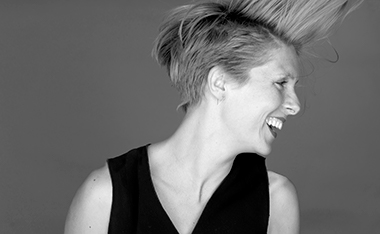
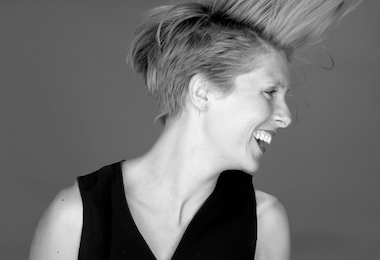
Fixed some typos and added some links. Also, resized thumbnail image to match the others so they line up nicely.

Changed region(s): [[0.0579, 0.0, 0.9263, 1.0]]

diff --git a/interview/emilie-baltz/index.php b/interview/emilie-baltz/index.php
@@ -58,7 +58,7 @@
   <header class="border header-interview">
     <div class="wrapper-sm">
       <h2>Emilie Baltz</h2>
-      <p class="intro">Emilie Baltz is an artist, an experience designer, and a food technologist but those terms don’t quite do her justice . She has taken all of her experiences ranging from childhood microwave experiments to studying contemporary dance and screenwriting, to inviting guests for colourful interactive dinners at her home and built a career in which she creates and tells interactive stories using food and the five senses in the most playful and unconventional ways. Based in New York City, she is also one of the founding members of New Inc., a founding faculty member of the School of Visual Arts Products of Design MFA Program, and the founder of Food Design Studio at Pratt Institute. She is also an award winning author of “L.O.V.E. Foodbook” and a public speaker at engagements such as TedX, the TODAY Show, FITC, and more. </p>
+      <p class="intro">Emilie Baltz is an artist, an experience designer, and a food technologist but those terms don’t quite do her justice. She has taken all of her experiences ranging from childhood microwave experiments to studying contemporary dance and screenwriting, to inviting guests for colourful interactive dinners at her home and built a career in which she creates and tells interactive stories using food and the five senses in the most playful and unconventional ways. Based in New York City, she is also one of the founding members of <a href="http://www.newinc.org/" alt="New Inc. New York">New Inc.</a>, a founding faculty member of the School of Visual Arts <a href="http://productsofdesign.sva.edu/" alt="Products of Design MFA Program at SVA">Products of Design MFA Program</a>, and the founder of Food Design Studio at Pratt Institute. She is also an award winning author of “L.O.V.E. Foodbook” and a public speaker at engagements such as TedX, the TODAY Show, FITC, and more. </p>
 
       <?php // Don't update. Using the info from PHP variables at the top of the page. ?>
       <p class="author">An interview with <a href="<?php echo $interviewer_url; ?>"><?php echo $interviewer; ?></a></p>
@@ -92,20 +92,20 @@
   <dl class="border">
     <dt class="interview-q">Emilie walked into the Osgoode boardroom at the Hilton hotel, between seminars, at <a href="http://fitc.ca/event/to17/" target="_blank">FITC 2017</a>, just as I finished testing my Zoom recorder. She would be sharing her expertise in <a href="http://fitc.ca/presentation/sensploration/" target="_blank">Sensploration</a> the following day and I had the opportunity to ask her everything from her work, to her background, to being a woman in tech. The kind of experiences Emilie designed blew my mind and broke down everything I had learned about experience design thus far. On my way to our meeting, I picked up a unicorn themed cupcake for Emilie from <a href="http://www.cutiepiecupcakes.ca/" target="_blank">Cutie Pie Cupcakes</a>. As it turns out, her personal company name she’s trademarked is called Unicorn Exists.</dt>
     <dd class="interview-a">
-      <p>When I was coming up with a business name for my accountant to register, I told him: Baltz Works, Baltz Inc. and just as a joke, Unicorns Exist. The next day, I received my paperwork and it read, ‘Unicorn Exists is live and open for business’ and I was like, what the f***?</p> 
- 
+      <p>When I was coming up with a business name for my accountant to register, I told him: Baltz Works, Baltz Inc. and just as a joke, Unicorns Exist. The next day, I received my paperwork and it read, ‘Unicorn Exists is live and open for business’ and I was like, what the f***?</p>
+
       <p>‘Baltz Works was taken.’</p>
 
-      <p>I said, ‘what about Baltz Inc?’ He said, ‘oh, I don’t know, the third one was funny.’ So he picked the third one but he misspelled it! He spelled it Unicorn Exists. He put the S after exist which makes no sense at all. I called him back and said Brian, you misspelled it!</p> 
+      <p>I said, ‘what about Baltz Inc?’ He said, ‘oh, I don’t know, the third one was funny.’ So he picked the third one but he misspelled it! He spelled it Unicorn Exists. He put the S after exist which makes no sense at all. I called him back and said Brian, you misspelled it!</p>
 
       <p>‘You have to change it now, I have to bill now!’ </p>
 
-      <p>I went to buy the domain and as I was typing out Unicorns Exist on <a href="https://www.name.com/" target="_blank">name.com</a>, I looked at it, and what I’ve typed is, unicornsexist. That’s the way it’s spelled as a domain. So obviously, I call him back and said never mind!</p> 
+      <p>I went to buy the domain and as I was typing out Unicorns Exist on <a href="https://www.name.com/" target="_blank">name.com</a>, I looked at it, and what I’ve typed is, unicornsexist. That’s the way it’s spelled as a domain. So obviously, I call him back and said never mind!</p>
 
       <p>That’s why Unicorn Exists is my (business) name. In the end it’s quite wonderful because I also believe in accidents. Unicorn Exists stands for hunting for possibilities because within accidents and mistakes, you can often find possibilities. It was a perfect metaphor for what I believe in anyway. We’re all hunting for the missing S (which is all the other unicorns who also search for possibilities!).</p>
     </dd>
   </dl>
-    
+
 <!-- // Q & A -  Add as many as required. -->
   <dl class="border">
     <dt class="interview-q">What is a food technologist and how do you define what you do?</dt>
@@ -114,7 +114,7 @@
       <p>For me, being a food technologist is about being able to create new possibilities; new arrangements that aren’t expected everyday, [creating] delightful inventions for tomorrow. I’m using a lot of digital technology now, a lot of sensor technology, mostly because I like the outcomes that it is able to deliver. I’m interested in rearranging the way that we eat and the way that we consume. Just like you can have a creative technologist, you can have a food technologist. I like to look through that lens and question how can we create tastier ways to engage with our technology.</p>
     </dd>
   </dl>
-    
+
     <!-- // Q & A -  Add as many as required. -->
   <dl class="border">
     <dt class="interview-q">How did you first start doing this? Did someone approach you?</dt>
@@ -126,7 +126,7 @@
         <p>Now, my practical experience is that I went to college and got a degree in screenwriting and contemporary dance. I’ve always been interested in storytelling. I was enamoured with this way of seeing the world, and also feeling the world. I wanted to study how to do that. Screenwriting is a way of organizing storytelling by architecting it through language, and dance is a form of not only expressing it for an audience, but also for feeling it yourself through your body. One is a verbal form of storytelling, and one is a physical form of storytelling. That said, after college I decided to write my own adventure and left film and dance behind to go into photography, then got a wild job restoring a french medieval chateau with Winston Churchill’s grandson, then came back to New York and waitressed. </p>
     </dd>
   </dl>
-    
+
   <!-- // Image - Landscape -->
   <div class="border img-landscape">
     <figure>
@@ -137,7 +137,7 @@
       </figcaption>
     </figure>
   </div>
-    
+
   <!-- // Pull Quote -->
   <aside class="border pull-quote">
     <p>We all must eat to live and in that quest for some sense of truth and human understanding in the world, I could find no other material other than food that seemed to connect all of us.</p>
@@ -150,22 +150,22 @@
       <p>I love humans. I love the stories that we live, and the feelings that we feel. With this experience in hospitality, I knew this was something that I wanted to do. Food had started to bring together the disciplines I had studied: screenwriting and dance, language and the human body, human behavior and human movement.</p>
     </dd>
   </dl>
-    
+
   <!-- // Pull Quote -->
   <aside class="border pull-quote">
-    <p>Food had started to bring together the disciplines I had studied: screenwriting and dance, language and the human body, human behavior and human movement. 
+    <p>Food had started to bring together the disciplines I had studied: screenwriting and dance, language and the human body, human behavior and human movement.
 </p>
   </aside>
-    
+
     <!-- // Q & A -  Add as many as required. -->
   <dl class="border">
     <dt class="interview-q">How long did you work there for?</dt>
     <dd class="interview-a">
-      <p>I worked there for a year. Then I went back to school and got a masters degree in industrial design. Afterwards, I worked in product design and development, from cell phones to jackets, product innovation for Microsoft, ping pong tables for Puma,, all sorts of “stuff”. Eventually I reached a certain point where I got bored of what was happening in my daily life because I was quite far from materials and from the user.</p>
+      <p>I worked there for a year. Then I went back to school and got a masters degree in industrial design. Afterwards, I worked in product design and development, from cell phones to jackets, product innovation for Microsoft, ping pong tables for Puma, all sorts of “stuff”. Eventually I reached a certain point where I got bored of what was happening in my daily life because I was quite far from materials and from the user.</p>
       <p>I had done my graduate thesis on food, specifically looking at why Americans eat the way they do: what are the environmental and contextual factors that influence our everyday consumption behaviours? I developed a whole series of different products and artifacts that were reflections of what I had been researching. But this was 2005, and this was a new space. People were not using food as a material for design at that period as much as we are today, so I chose to let that go and worked practically as an industrial designer. When I got a little disillusioned in a corporate/commercial setting, I started making wild dinners in my own home to rekindle this love of food and behavior.</p>
     </dd>
   </dl>
-    
+
   <!-- // Image - Landscape -->
   <div class="border img-landscape">
     <figure>
@@ -183,10 +183,10 @@
       <p>With my colour themed dinners, guests left with an understanding of a particular colour that expanded the boundaries of their previous understanding. Maybe you never thought that helium was pink, but of course it can be! This kind of radical hospitality allows us to not just engage in new ways with each other, but also expand an understanding of ourselves and the world around us. That is my fundamental goal in life. </p>
     </dd>
   </dl>
-    
+
   <!-- // Pull Quote -->
   <aside class="border pull-quote">
-    <p>How can we create more plural lexicons and richer fluencies together as human beings so we understand that though we are alone, we are also together? What if the language of diversity didn’t just stop at the colour of our skin, or the nationality that’s on our passport, but it also had to do with the way we see the world as humans? 
+    <p>How can we create more plural lexicons and richer fluencies together as human beings so we understand that though we are alone, we are also together? What if the language of diversity didn’t just stop at the colour of our skin, or the nationality that’s on our passport, but it also had to do with the way we see the world as humans?
 </p>
   </aside>
 
@@ -195,7 +195,7 @@
     <figure>
       <img src="<?php echo $path_img; ?>landscape-emilie-baltz-food-junkie.jpg" alt="Emilie Baltz Food Junkie page">
       <figcaption>
-          Emilie’s side experiments with food didn’t end there. She, with the help of her intern, used to make crazy recipes out of office snacks. She posted the recipes on a friend’s website at <a href="http://www.core77.com/" target="_blank">core77.com</a> and called it, <a href="http://www.eatmedaily.com/2009/11/office-snack-gourmet-by-emilie-baltz-food-art/" target="_blank">Office Snack Gourmet</a>. 
+          Emilie’s side experiments with food didn’t end there. She, with the help of her intern, used to make crazy recipes out of office snacks. She posted the recipes on a friend’s website at <a href="http://www.core77.com/" target="_blank">core77.com</a> and called it, <a href="http://www.eatmedaily.com/2009/11/office-snack-gourmet-by-emilie-baltz-food-art/" target="_blank">Office Snack Gourmet</a>.
       </figcaption>
     </figure>
   </div>
@@ -206,7 +206,7 @@
       <p> I made five gastronomic recipes, some of which I had grown up with, remade with American junk food from crappy office pantry snacks. When it posted online, it went a little bit viral and I got a call from a book publisher in the States who said, ‘We’ve always wanted to make a book like this. Would you be interested? And can you make 101 recipes?’ And I said, “Of course!” </p>
     </dd>
   </dl>
-    
+
   <!-- // Image - Landscape -->
   <div class="border img-landscape">
     <figure>
@@ -216,7 +216,7 @@
       </figcaption>
     </figure>
   </div>
-    
+
     <!-- // Q & A -  Add as many as required. -->
   <dl class="border">
     <dt class="interview-q">What made you want to go back to school for industrial design?</dt>
@@ -224,12 +224,12 @@
       <p>I wanted to learn how to make things. I like to use my body, but I also like people. Industrial design, specifically the study of product design, is the study of how things and human behaviour intersect. (Think of it this way, if we are living the Theatre of Life, I think product design is the Props). Industrial design is a great way to learn about form, material, and shape, but it’s also a great way to learn about human behaviour. There’s so much user research that goes into it, including behavioural studies and user testing. You’re actually learning about people throughout the entire process. At heart, it is a problem solving discipline, so you have to have an empathetic understanding of a user to deliver a solution.</p>
     </dd>
   </dl>
-    
+
   <!-- // Pull Quote -->
   <aside class="border pull-quote">
     <p>Industrial design is a great way to learn about form, material, and shape, but it’s also a great way to learn about human behaviour.</p>
   </aside>
-    
+
     <!-- // Q & A -  Add as many as required. -->
   <dl class="border">
     <dt class="interview-q">How do you test with users and sympathize with their needs when designing for food experiences?</dt>
@@ -238,7 +238,7 @@
       <p>That said, at the end of the day, what people remember is, as Maya Angelou wrote, ‘people will not remember me for what I do, they will remember me for how I made them feel.’ That’s what’s so interesting for me about the design of food. The creative departure can be less focused on what you do, and more about what you want to feel.</p>
     </dd>
   </dl>
-    
+
     <!-- // Q & A -  Add as many as required. -->
   <dl class="border">
     <dt class="interview-q">What’s your favourite restaurant?</dt>
@@ -247,7 +247,7 @@
       <p>For the theatre of life, <a href="https://www.alinearestaurant.com/" target="_blank">Alinea</a>, in Chicago is Grant Achatz’s opera of food and it is just wild. Also I love anything Albert Adria does, Ferran Adria’s brother, (the two guys who started <a href="http://elbulli.com/" target="_blank">El Bulli</a>). Albert is just a genius and anything he does is amazing. I was fortunate enough to eat in a place called <a href="http://www.nytimes.com/2011/05/08/travel/08bites-41degrees.html" target="_blank">41 Degrees</a> which closed a couple of years ago, and now he’s opened one called <a href="http://www.enigmaconcept.es/" target="_blank">Enigma</a>. I also love a coffee shop in New York called <a href="http://www.ocafenyc.com/" target="_blank">O Cafe</a>. A friend of mine, Fernando, runs it. I love it because everything tastes like what it is. Either I like things that are super fantastic or I love just to eat an avocado, a really good egg, a really nice piece of dark chocolate, and really nice salt. Those are the two poles.</p>
     </dd>
   </dl>
-    
+
     <!-- // Q & A -  Add as many as required. -->
   <dl class="border">
     <dt class="interview-q">Tell me about some of your favourite projects.</dt>
@@ -255,7 +255,7 @@
       <p>There was a very epic  one called <a href="http://emiliebaltz.com/commissions/energia-dinner/" target="_blank">Energia</a>. It was a dinner at a nuclear reactor in Stockholm. That was wild. That dinner was designed for risk. How can we foster risk and create a place, a space, for people to experience risk? Well, you put them into an elevator, you plunge them 25 metres under Stockholm city centre and you have them explore the innards of a decommissioned nuclear reactor through all sorts of wild food experiences. It was epic and wonderful and I loved making it!</p>
     </dd>
   </dl>
-    
+
   <!-- // Image - Landscape -->
   <div class="border img-landscape">
     <figure>
@@ -266,7 +266,7 @@
       </figcaption>
     </figure>
   </div>
-    
+
     <!-- // Q & A -  Add as many as required. -->
   <dl class="border">
     <dd class="interview-a">
@@ -286,7 +286,7 @@
     <!-- // Q & A -  Add as many as required. -->
   <dl class="border">
     <dd class="interview-a">
-      <p>The <a href="http://emiliebaltz.com/commissions/cotton-candy-theremin/" target="_blank">cotton candy theremin machine</a> was also a collaborative project with <a href="http://sharkbox.com/" target="_blank">Charlie Whitney</a> and <a href="http://www.stewardesslollipop.com/" target="_blank">Philip Sierzega</a>. Phil is an interactive director and artist and Charlie is a programmer and an artist. Cotton candy serves as a good metaphor for the project because it involved spinning so many different disciplines together. We worked with sound designers and motion graphics designers, coders, industrial designers, and chefs.</p>
+      <p>The <a href="http://emiliebaltz.com/commissions/cotton-candy-theremin/" target="_blank">Cotton Candy Theremin Machine</a> was also a collaborative project with <a href="http://sharkbox.com/" target="_blank">Charlie Whitney</a> and <a href="http://www.stewardesslollipop.com/" target="_blank">Philip Sierzega</a>. Phil is an interactive director and artist and Charlie is a programmer and an artist. Cotton candy serves as a good metaphor for the project because it involved spinning so many different disciplines together. We worked with sound designers and motion graphics designers, coders, industrial designers, and chefs.</p>
     </dd>
   </dl>
   <!-- // Image - Landscape -->
@@ -320,7 +320,7 @@
       <p>New Inc is the New Museum’s incubator for art design and technology and supports entrepreneurship in various forms. The <a href="http://www.newmuseum.org/" target="_blank">New Museum</a> is such an interesting institution because it’s constantly questioning itself. What is a museum? What does it mean to be emerging in the contemporary scene right now? New Inc is great. I was the first class there. It was a special time and place as well, because the first class of anything is usually filled with people who are ready and willing to experiment.</p>
     </dd>
   </dl>
-    
+
   <!-- // Image - Landscape -->
   <div class="border img-landscape">
     <figure>
@@ -331,7 +331,7 @@
       </figcaption>
     </figure>
   </div>
-    
+
     <!-- // Q & A -  Add as many as required. -->
   <dl class="border">
     <dt class="interview-q">You founded the Food Design Studio at Pratt Institute as well. Tell me about that. </dt>
@@ -341,7 +341,7 @@
       <p>That’s the first half of the food design studio and the second half is a series of commercial applications. We design a cookie, a meal, and different levels of consumer packaged goods for in-home experiences, to spectacular events. The final project can be of any area of interest so some students might explore sustainability, while some people are really interested in play.</p>
     </dd>
   </dl>
-    
+
   <!-- // Image - Landscape -->
   <div class="border img-landscape">
     <figure>
@@ -352,7 +352,7 @@
       </figcaption>
     </figure>
   </div>
-    
+
     <!-- // Q & A -  Add as many as required. -->
   <dl class="border">
     <dt class="interview-q">Where do you see UX/UI education going in the future?</dt>
@@ -364,7 +364,7 @@
   <aside class="border pull-quote">
     <p>If you switch your point of entry to an emotional point of entry, I believe that our end outcome is different. It is more empathetic and generous. Those are abstract terms but I do think it can change the content in the end by creating something that’s a little more human. </p>
   </aside>
-    
+
     <!-- // Q & A -  Add as many as required. -->
   <dl class="border">
     <dt class="interview-q">Has your gender ever affected your work experience?</dt>
@@ -380,8 +380,8 @@
   </aside>
 
 <dl class="border">
-    <dd class="interview-a">
-        <p>As we gathered our things to make our way out of the boardroom, she put on a sparkly aviator cap that reminded me of the one Natalie Portman wore in Garden State.</p>
+    <dd class="interview-q">
+        <p>As we gathered our things to make our way out of the boardroom, Emilie put on a sparkly aviator cap that reminded me of the one Natalie Portman wore in Garden State.</p>
         <p>“Where is your hat from?”</p>
         <p>I asked eagerly, because I’ve never seen anything like it before.</p>
         <p>“Paris,” she replied as she ties the clasp on below her chin. Of course it is...everything about Emilie Baltz is a technicolor dream.</p>
@@ -407,8 +407,7 @@
         <?php if ($interviewer2): echo 'and <a href="'.$interviewer_url2 .'">'.$interviewer2.'</a>';endif; ?>
       </li>
       <li>
-        Editing by <a href="<?php echo $editor_url; ?>"><?php echo $editor; ?></a>
-        <?php if ($editor2): echo 'and <a href="'.$editor_url2 .'">'.$editor2.'</a>';endif; ?>
+        Editing by <a href="<?php echo $editor_url; ?>"><?php echo $editor; ?></a><?php if ($editor2): echo ', <a href="'.$editor_url2 .'">'.$editor2.'</a>';endif; ?>
         <?php if ($editor3): echo 'and <a href="'.$editor_url3 .'">'.$editor3.'</a>';endif; ?>
       </li>
       <li>
